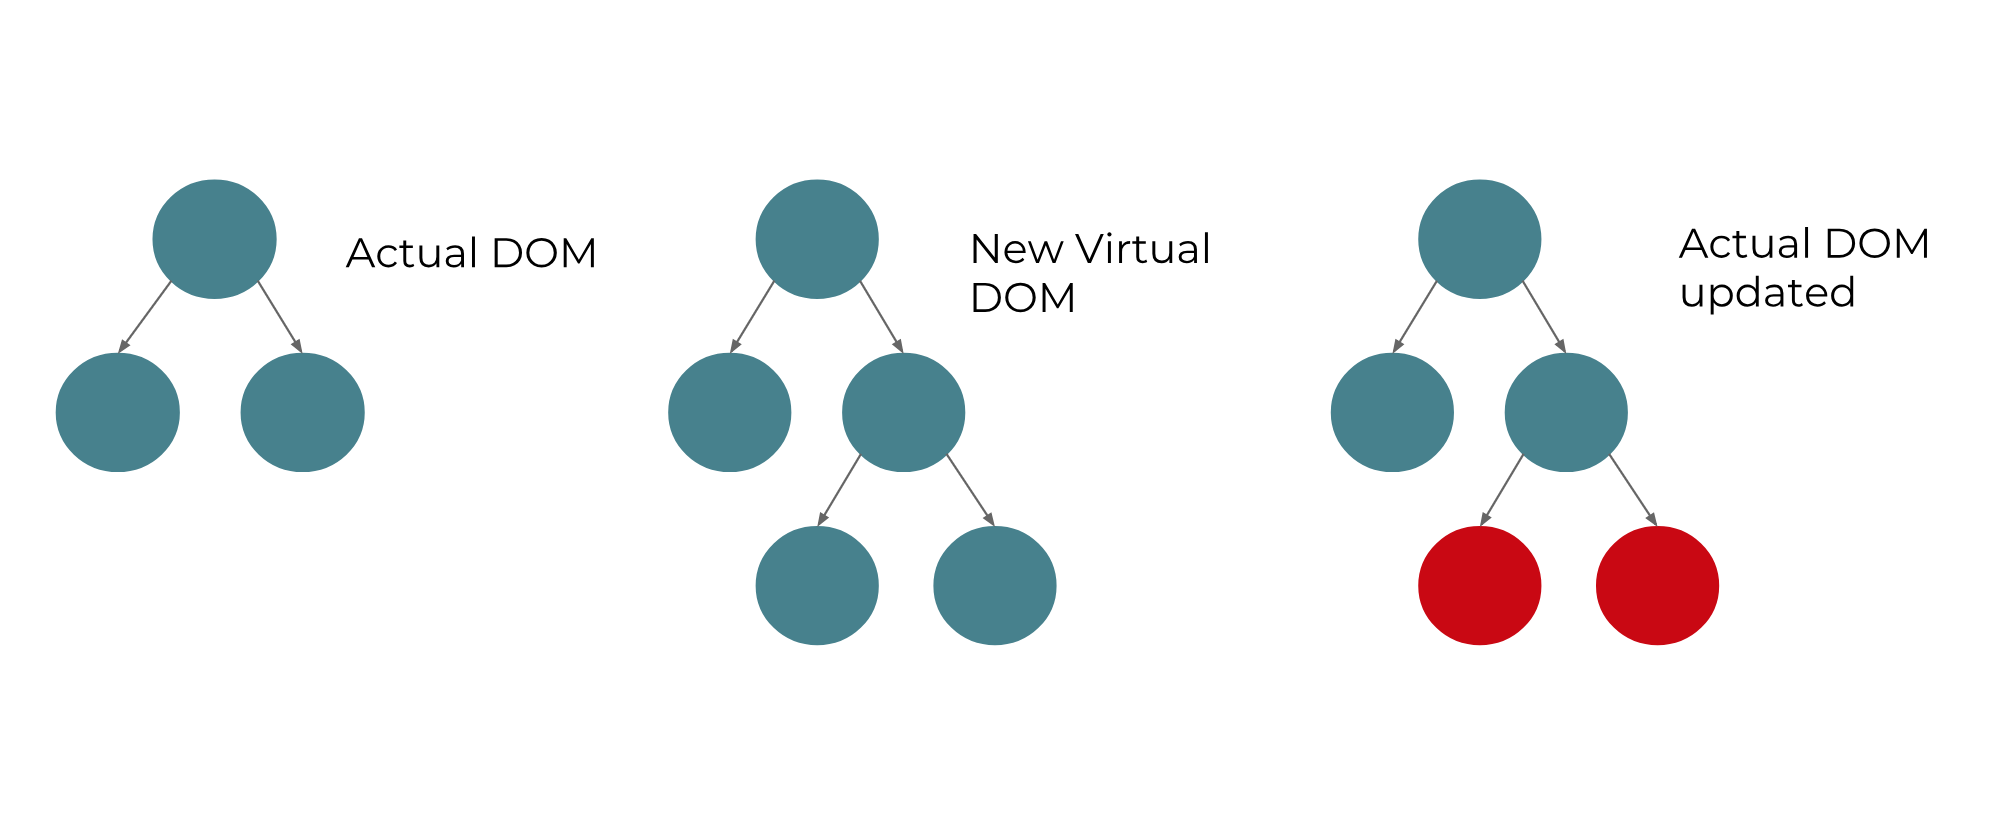
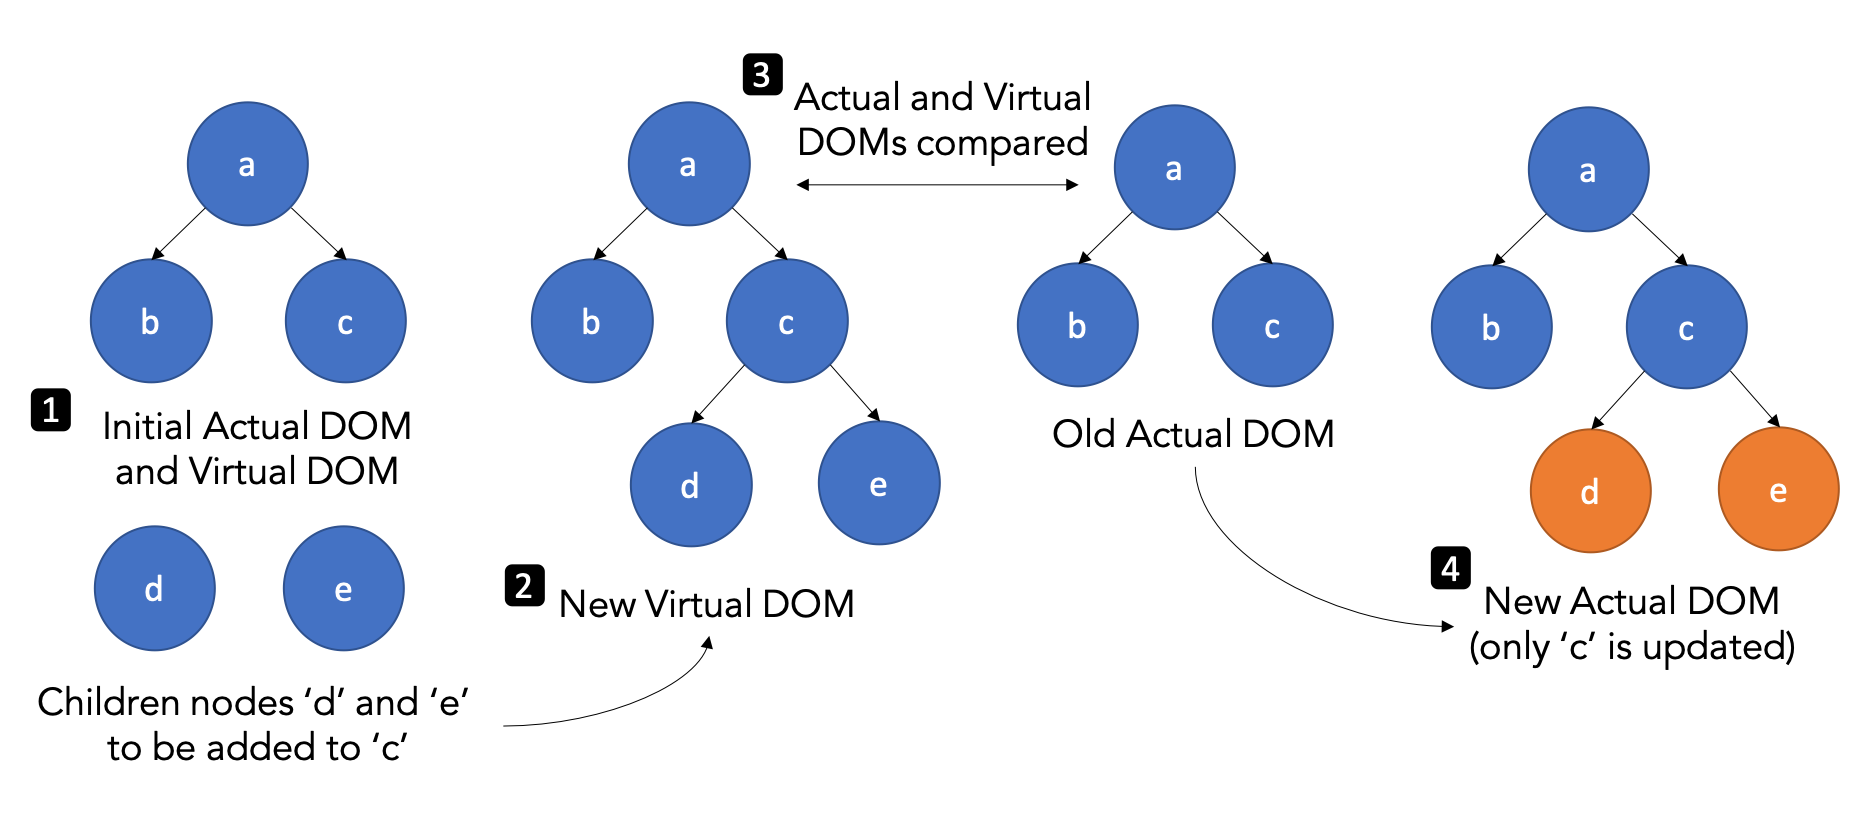
Updates after review
* Alphabetical order in navigation
* Number benefits
* Credit React Components image
* Update Virtual DOM diagram
* Caption diagrams and refer to them in text

diff --git a/contents/javascript/Javascript-framework-React.md b/contents/javascript/Javascript-framework-React.md
@@ -12,22 +12,24 @@
 
 # React
 
-**Author: [Aadyaa Maddi](https://github.com/amad-person)** <br/>
+**Author: [Aadyaa Maddi](https://github.com/amad-person)** <br>
 Reviewers: [Amrut Prabhu](https://github.com/amrut-prabhu), [Marvin Chin](https://github.com/marvinchin)
 
 ### What is React?
 
-**React** is an open-source JavaScript library for <tooltip content="React only handles the UI component of your application. It is not a full web application framework!">building the UI</tooltip> of web applications. It was developed by Facebook and released to the world in 2013. It is now used in a [large number of popular applications](https://github.com/facebook/react/wiki/Sites-Using-React), including Facebook and Instagram.
+**React** is an open-source JavaScript library for building the UI of web applications. It only handles the UI component of your application, and it is not a full web application framework! 
+
+React was developed by Facebook and released to the world in 2013. It is now used in a [large number of popular applications](https://medium.com/@coderacademy/32-sites-built-with-reactjs-172e3a4bed81), including Facebook and Instagram.
 
 ### Why use React?
 
 React has three main benefits. Let's take a look at each of them in detail.
 
-#### Benefit: Simplicity
+#### Benefit 1: Simplicity
 
 The traditional <tooltip content="Imperative programming focuses on explicitly describing how a program operates.">imperative</tooltip> approach of building a web application requires you to describe how you want your UI to change when your application data changes. Let's take a look at an example to see how this works. 
 
-Suppose your web application displays a message and has a button to change the message when it is clicked.
+Suppose your web application displays a message and has a button. You want the message to change when this button is clicked.
 
 One way of doing this is by using [jQuery](https://jquery.com/): 
 
@@ -39,11 +41,11 @@ $("#button").click(function() {
 
 In the example above, we manually selected the <tooltip content="The Document Object Model, or the 'DOM', is an interface to web pages. It represents the page as nodes and objects, allowing programs to read and manipulate the page's content, structure, and styles.">DOM</tooltip> elements `button` and `message`, attached a listener to `button` for the DOM's `click` event, and wrote a function that describes how to change `message` on clicking `button`. 
 
-This approach is great for simple applications, but web applications usually have to interact with a lot more DOM elements and events. Different browsers have variations in their implementations of the [core DOM](https://quirksmode.org/dom/core/), [events system](https://www.quirksmode.org/dom/events/index.html) and even [styles](https://www.quirksmode.org/dom/w3c_css.html)! If you want your application to work across different browsers, you would need to manually take care of the variations with the imperative approach. 
+This approach is good for simple applications, but most web applications usually have to interact with a lot more DOM elements and events. Also, different browsers have variations in their implementations of the [core DOM](https://quirksmode.org/dom/core/), [events system](https://www.quirksmode.org/dom/events/index.html) and even [styles](https://www.quirksmode.org/dom/w3c_css.html)! If you want your application to work across different browsers, you would need to manually take care of the variations with the imperative approach. 
 
 React simplifies this process by taking a <tooltip content="Declarative programming focuses on what the program should accomplish without specifying how the program should achieve the result.">**declarative**</tooltip> approach to building UIs. 
 
-To see how this works, let's build the same web application using React instead:
+To see how this works, let's build the same web application as before, using React instead:
 
 <box type="info">
     The sandbox below is editable. You can play around with the application data (or <code>state</code>) and see how the UI automatically gets updated. 
@@ -53,7 +55,7 @@ To see how this works, let's build the same web application using React instead:
 
 As you can see above, the declarative approach is useful because it abstracts the complexity of interacting with the actual DOM elements and <tooltip content="React provides its own event system so that events can work in the same way across different browsers.">events</tooltip>. With React, you just need to specify *what* you want to show in the UI when the application data changes.
 
-#### Benefit: Reusability
+#### Benefit 2: Reusability
 
 Suppose you have a web application with the following markup in its UI:
 
@@ -63,7 +65,7 @@ Suppose you have a web application with the following markup in its UI:
 <h3>This is line 3.</h3>
 ```
 
-The only difference in the three headings above is the number at the end of each line. Wouldn't it be nice if we could reuse a single line of markup for each heading and just pass in a different number each time?
+The only difference in the three headings above is the number at the end of each line. Wouldn't it be nice if we could reuse the same markup for each heading and just pass in a different number each time?
 
 We can do this with React! Let's see how:
 
@@ -77,27 +79,28 @@ In the example above, we reused the markup for each heading using an `ExampleCom
 
 Components can be especially useful when your UI is complex. With components, you can not only *reuse* code, but also *divide* your UI into encapsulated units that manage their own data and logic. 
 
-For example, if you have a todo list application, it could have a `Form` component to handle adding new items and a `TodoList` component to display all the items. The `TodoList` component could further be composed of multiple `TodoListItem` components, one for each item in the todo list. 
+For example, let's say you want to build a todo list application. As shown in Figure 1 below, the `App` component could have a `Form` component to handle adding new items and a `TodoList` component to display all the items. The `TodoList` component could further be composed of multiple `TodoListItem` components, one for each item in the todo list. 
 
 ![Building a Todo List application using React](javascript-framework-react-imgs/ReactComponentsExample.png "Building a Todo List application using React")
 
-You can read more about components and props in the React [documentation](https://reactjs.org/docs/components-and-props.html). 
+_Figure 1. Dividing a todo list application into React components._ <sup>[source](https://i.cloudup.com/DCcBG58qYv.png)</sup>
 
-#### Benefit: Better Performance
+#### Benefit 3: Better Performance
 
-Web applications can have a lot of user interaction and data updates, which results in changes being made to the DOM. Adding and removing DOM nodes isn't slow. The performance-bottleneck that arises due to DOM manipulation is because the browser needs to [reflow and repaint](https://www.phpied.com/rendering-repaint-reflowrelayout-restyle/) the UI every time the DOM is changed.
+Web applications can have a lot of user interaction and data updates, which results in changes being made to the DOM. Adding and removing DOM nodes isn't slow, but the performance-bottleneck arises because the browser needs to [reflow and repaint](https://www.phpied.com/rendering-repaint-reflowrelayout-restyle/) the UI every time the DOM is changed.
 
 React minimizes this update time by using a virtual DOM. The virtual DOM is a JavaScript object that is kept in the memory of your application.
 
 ![React's Virtual DOM](javascript-framework-react-imgs/ReactVirtualDOM.png "React's Virtual DOM")
+_Figure 2. How React's actual DOM gets updated._
 
-Any updates to the UI will first be made to the virtual DOM. Then, React will compare the virtual DOM with the actual DOM using a [diffing algorithm](https://reactjs.org/docs/reconciliation.html#the-diffing-algorithm). 
+As shown in Figure 2 above, updates to the UI will first be made to the virtual DOM. Then, React will compare the virtual DOM with the actual DOM using a [diffing algorithm](https://reactjs.org/docs/reconciliation.html#the-diffing-algorithm). 
 Finally, React updates the actual DOM only in places it differs with the virtual DOM. It batches multiple changes together and updates the actual DOM in one go, minimizing update time. 
 
 #### Other Advantages of React
 
 Besides the three main benefits explained above, React has the following advantages:
- - React only allows data to flow downwards (one-way data binding), which makes your application [easier to debug](https://flaviocopes.com/react-unidirectional-data-flow/).
+ - React only allows data to flow downwards (one-way data binding), which makes your application [easier to debug](https://flaviocopes.com/react-unidirectional-data-flow/) as you can be sure that the data updates the UI, and never the other way around.
  - As React is an open-source library backed by Facebook, it is constantly being updated with new features and performance optimizations.
 
 ### Disadvantages of React

diff --git a/_markbind/navigation/mainNav.md b/_markbind/navigation/mainNav.md
@@ -58,8 +58,8 @@
   * [Android]({{baseUrl}}/contents/android/IntroToAndroid.html)
   * [Angular]({{baseUrl}}/contents/javascript/Javascript-framework-Angular.html)
   * [NodeJS]({{baseUrl}}/contents/node/nodejs.html)
-  * [VueJS]({{baseUrl}}/contents/javascript/Javascript-framework-VueJs.html)
   * [React]({{baseUrl}}/contents/javascript/Javascript-framework-React.html)
+  * [VueJS]({{baseUrl}}/contents/javascript/Javascript-framework-VueJs.html)
 
 * ****Tools Useful for Software Engineers****
   * [Regular Expressions]({{baseUrl}}/contents/regex/Regex.html)
